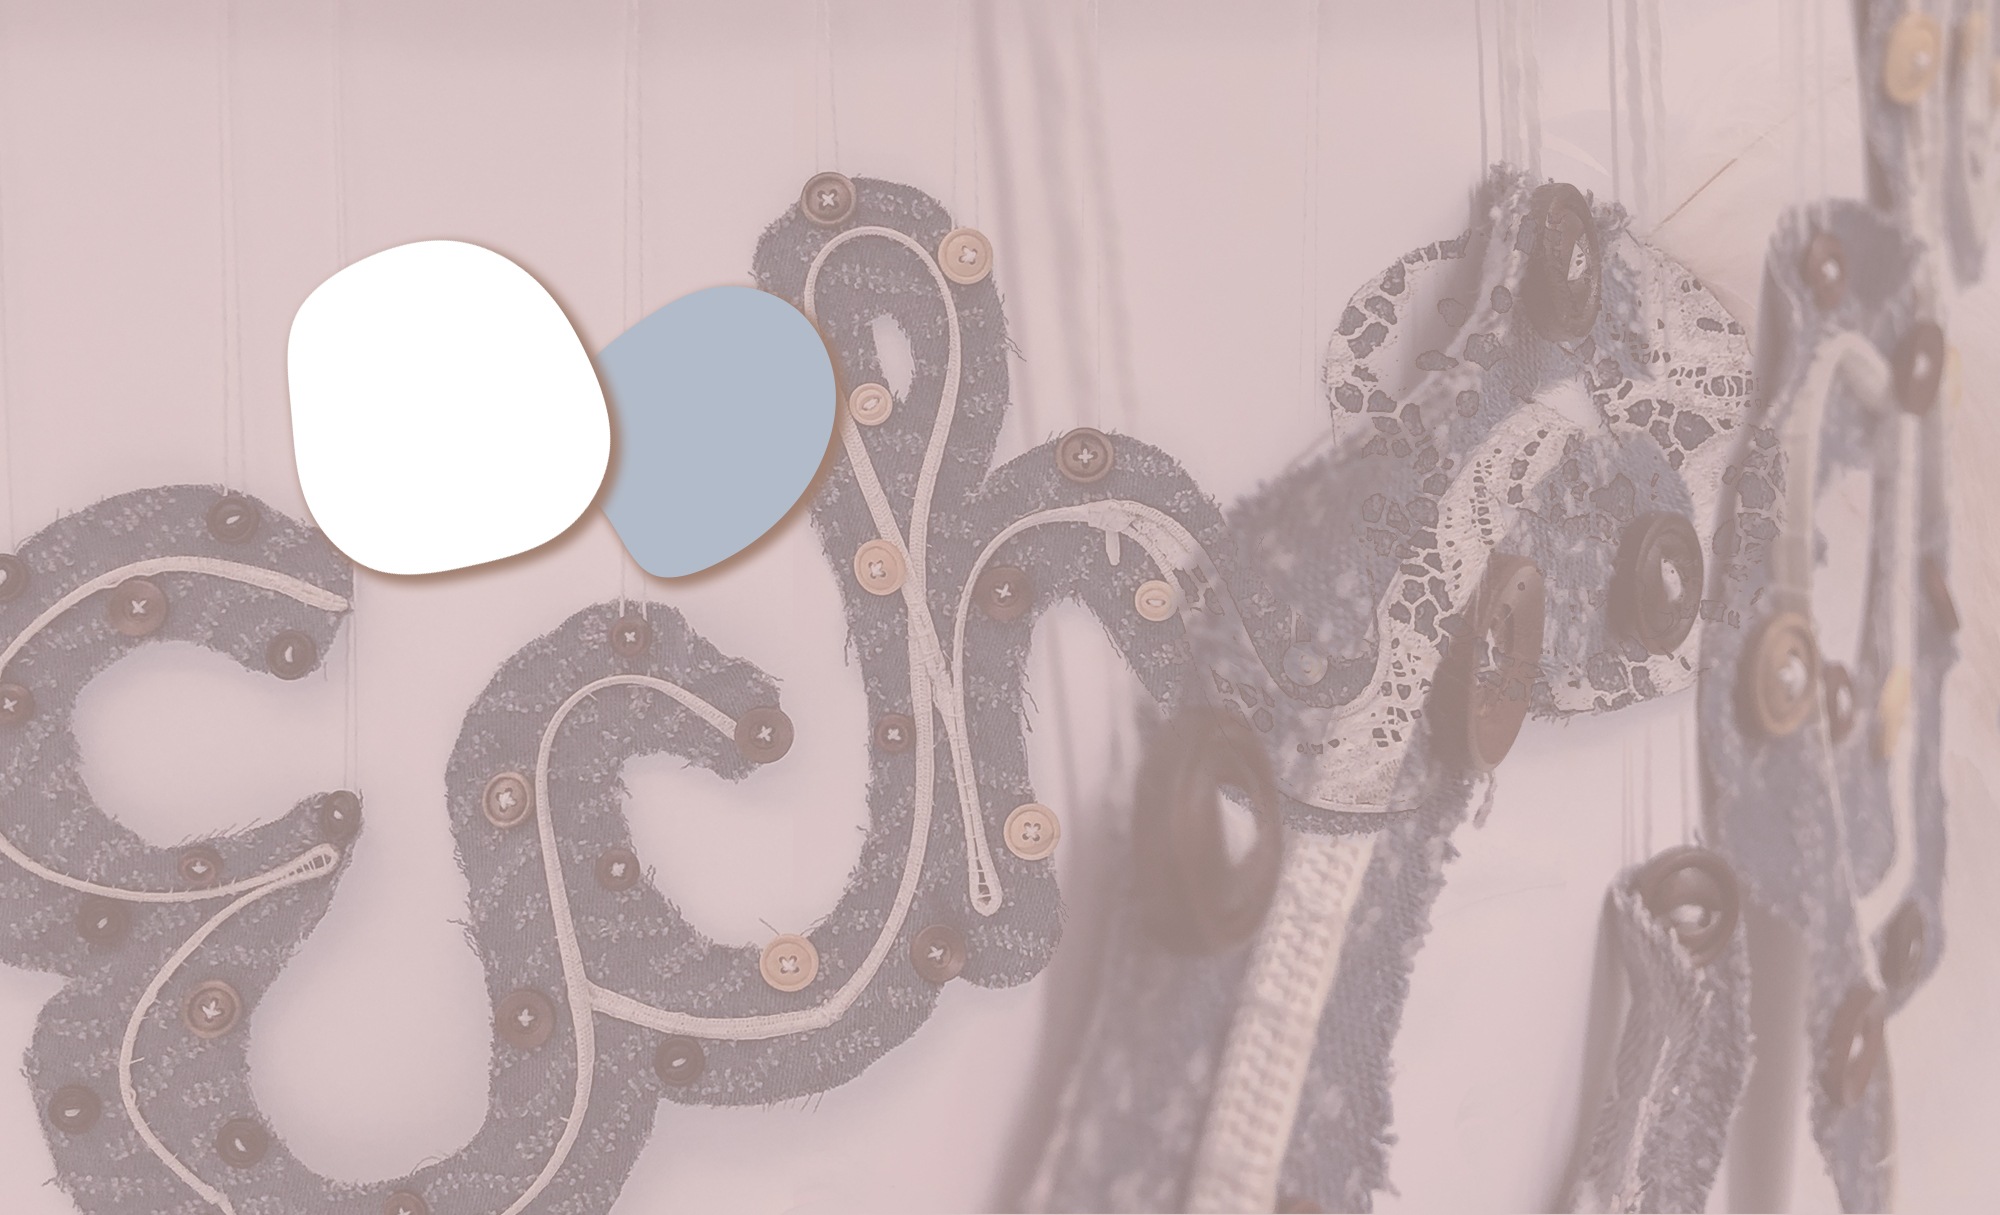
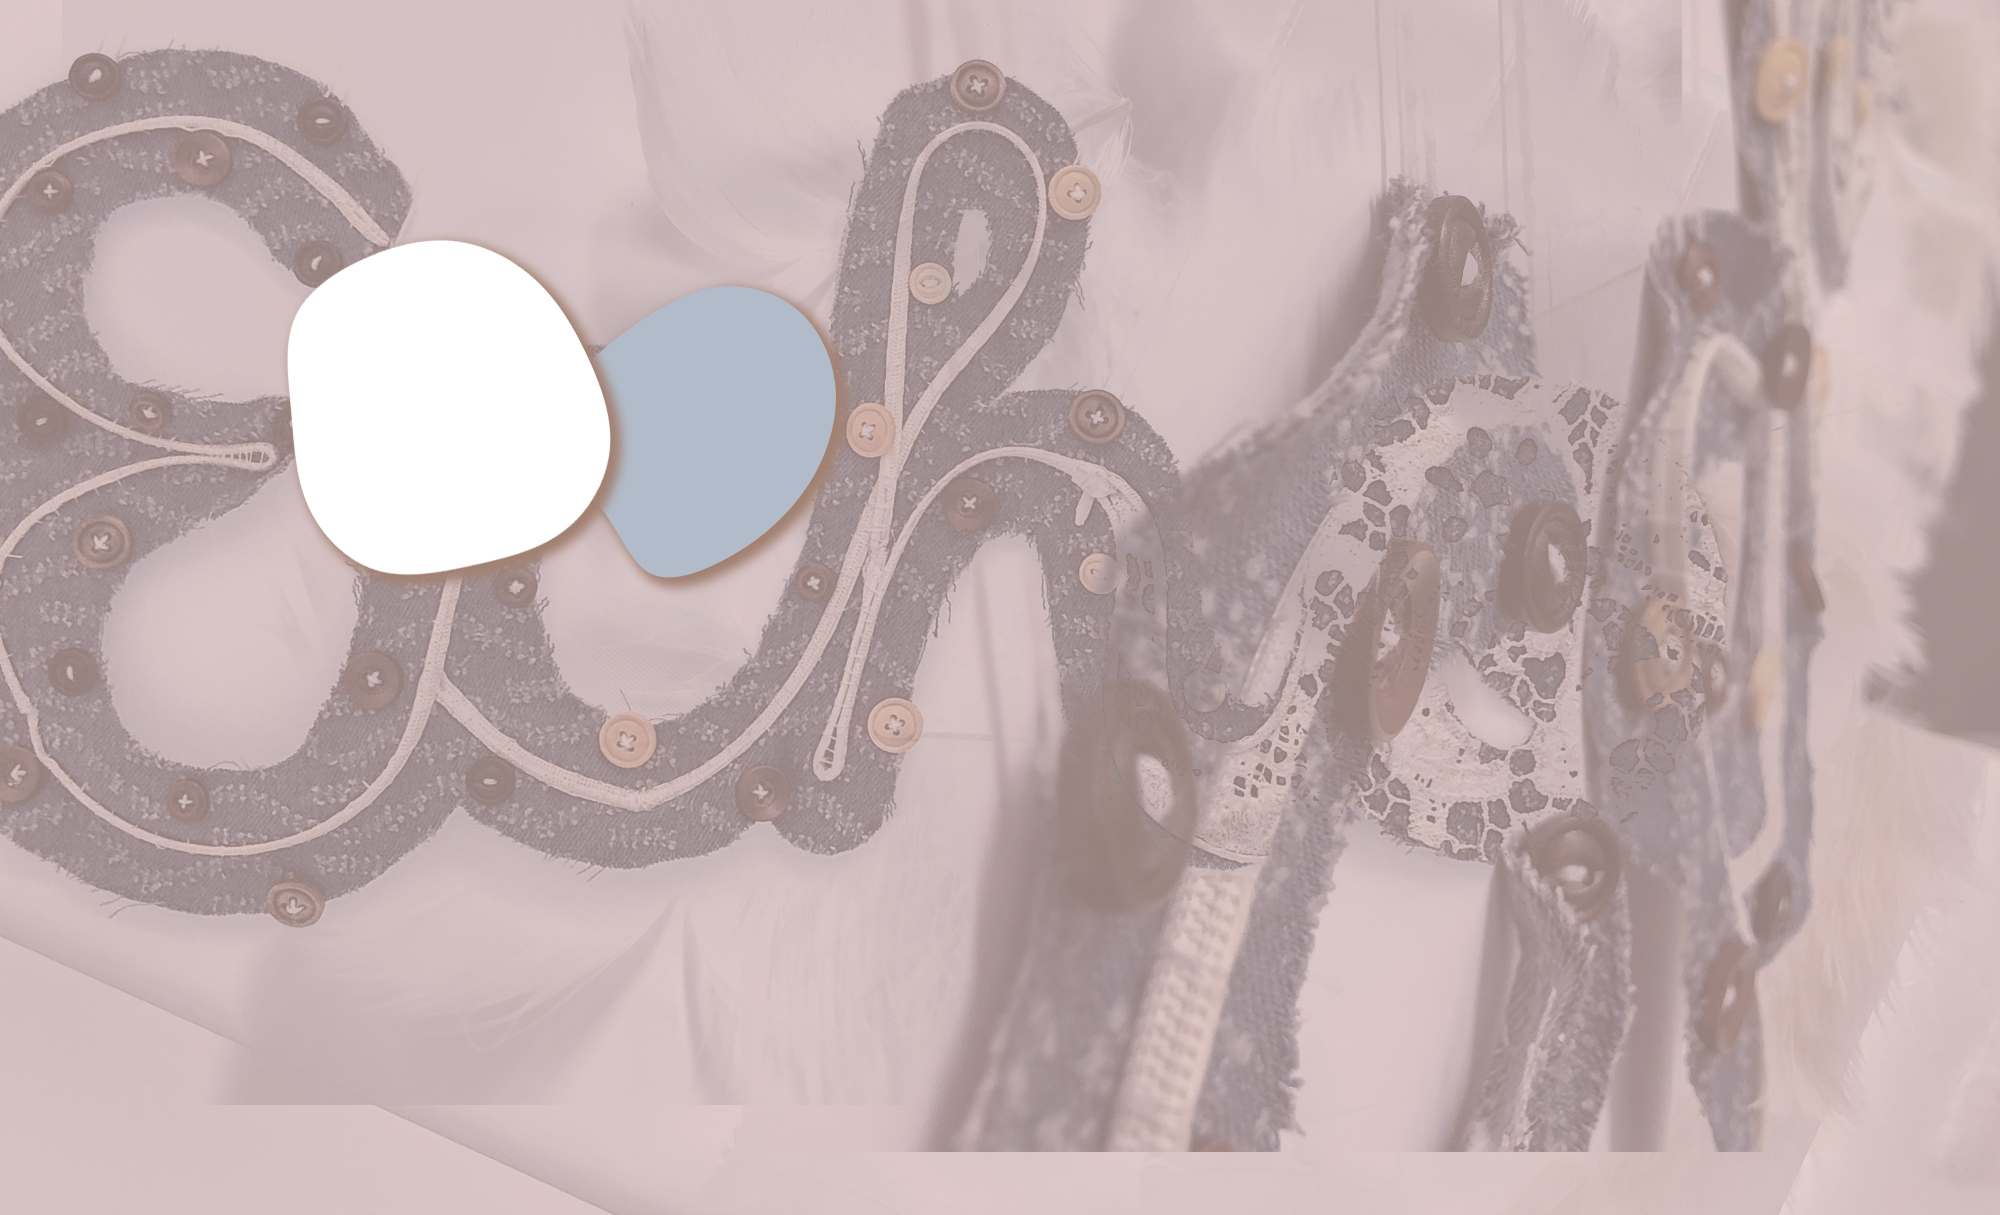
i can dooooo it

diff --git a/Conceptual_1.html b/Conceptual_1.html
@@ -46,13 +46,13 @@
 	    </div>
 	  </nav>
 	  
-	  <section class="hero-wrap" style="background-image: url('images/P1_1_big.jpg');" data-stellar-background-ratio="0.5">
+	  <section class="hero-wrap" style="background-image: url('images/P1_3_big.jpg');" data-stellar-background-ratio="0.5">
       <div class="overlay"></div>
       <div class="container">
         <div class="row no-gutters slider-text align-items-center justify-content-start">
           <div class="col-md-9 ftco-animate pb-4">
-            <h1 class="mb-3 bread">Blue + Red "≠ Purple" / "= Love"</h1>
-            <p style="color:#e2c0bb">My Family Booklet</p>
+            <h1 class="mb-3 bread">As Denim . As Feather</h1>
+            <p style="color:#e2c0bb">Feel My Name</p>
             <p class="breadcrumbs"><span class="mr-2">
               <a href="index.html">Home 
                 <i class="ion-ios-arrow-forward"></i>
@@ -71,7 +71,7 @@
                 <div class="icon justify-content-center align-items-center d-flex"><span class="flaticonnager">
                     <img src="images/What.jpg" class="img-fluid" alt="Colorlib Free Template"></span></div>
               <div class="media-body">
-                <h3 class="heading mb-3">Booklet</h3>
+                <h3 class="heading mb-3">Artwork</h3>
               </div>
             </div>      
           </div>
@@ -89,7 +89,7 @@
                 <div class="icon justify-content-center align-items-center d-flex"><span class="flaticonnager">
                     <img src="images/When.jpg" class="img-fluid" alt="Colorlib Free Template"></span></div>
               <div class="media-body">
-                <h3 class="heading mb-3">Yeah 2</h3>
+                <h3 class="heading mb-3">Yeah 1</h3>
               </div>
             </div>      
           </div>
@@ -107,7 +107,7 @@
                 <div class="icon justify-content-center align-items-center d-flex"><span class="flaticonnager">
                     <img src="images/Way.jpg" class="img-fluid" alt="Colorlib Free Template"></span></div>
               <div class="media-body">
-                <h3 class="heading mb-3"><span>Printing</span></h3>
+                <h3 class="heading mb-3"><span>Hand Made</span></h3>
               </div>
             </div>     
           </div>
@@ -119,12 +119,12 @@
         	<div class="col-md-12 tour-wrap mb-5">
     				<div class="row">
     					<div class="col-md-6 d-flex ftco-animate">
-    						<div class="img align-self-stretch" style="background-image: url(images/P1_1_intro.jpg);"></div>
+    						<div class="img align-self-stretch" style="background-image: url(images/P1_3_intro.jpg);"></div>
     					</div>
     					<div class="col-md-6 ftco-animate">
     						<div class="text py-5">
-    							<h3><a href="#">My Family Booklet</a></h3>
-    							<p class="pos"><span class="price">A strange booklet about my warm family ~</span></p>
+    							<h3><a href="#">Feel My Name</a></h3>
+    							<p class="pos"><span class="price">I am as tough as denims WHILE as gentle as feathers ~</span></p>
     							<p>
                       Why this booklet's name is - Blue + Red "≠ Purple" / "= Love" -? <br> 
                       In short, my father is an irritable person like red, my mother is a soft person like blue, 
@@ -140,57 +140,40 @@
     			</div>
     			<div class="col-md-12 tour-wrap">
     				<div class="day-wrap">
-    					<h3 class="pl-5">Front Cover page</h3>
-              <img width="600" height="100" src="images/P1_1_1.png" class="img-fluid" alt="Colorlib Free Template">
-              <p>The booklet's theme is shown on this page. 
-                Looks like my parents and I are standing there seriously, 
-                but it actually echos with the surprised on the back cover page.</p>
+    					<h3 class="pl-5">Buttons</h3>
+              <img width="1000" height="100" src="images/P1_5_1.JPG" class="img-fluid" alt="Colorlib Free Template">
     				</div>
     			</div>
     			<div class="col-md-12 tour-wrap">
     				<div class="day-wrap">
-              <h3 class="pl-5">P1 & 2</h3>
-              <img width="1600" height="100" src="images/P1_1_2.png" class="img-fluid" alt="Colorlib Free Template">
-    					<p>These two pages' theme is "Number". </p>
+    					<h3 class="pl-5">Feathers</h3>
+              <img width="1000" height="100" src="images/P1_5_2.JPG" class="img-fluid" alt="Colorlib Free Template">
     				</div>
     			</div>
     			<div class="col-md-12 tour-wrap">
               <div class="day-wrap">
-                <h3 class="pl-5">P3 & 4</h3>
-                <img width="1600" height="100" src="images/P1_1_3.png" class="img-fluid" alt="Colorlib Free Template">
-                <p>These two pages' theme is "Places". </p>
+                <h3 class="pl-5">Hanging Line</h3>
+                <img width="500" height="100" src="images/P1_5_3.JPG" class="img-fluid" alt="Colorlib Free Template">
               </div>
             </div>
             <div class="col-md-12 tour-wrap">
                 <div class="day-wrap">
-                  <h3 class="pl-5">P5 & 6</h3>
-                  <img width="1600" height="100" src="images/P1_1_4.png" class="img-fluid" alt="Colorlib Free Template">
-                  <p>These two pages' theme is "A/ some special thing(s) in my house". </p>
+                  <h3 class="pl-5">The "White"</h3>
+                  <img width="600" height="100" src="images/P1_5_4.JPG" class="img-fluid" alt="Colorlib Free Template">
                 </div>
               </div>
               <div class="col-md-12 tour-wrap">
                   <div class="day-wrap">
-                    <h3 class="pl-5">P7 & 8</h3>
-                    <img width="1600" height="100" src="images/P1_1_5.png" class="img-fluid" alt="Colorlib Free Template">
-                    <p>These two pages' theme is "Time and important events". </p>
+                    <h3 class="pl-5">Outcome</h3>
+                    <img width="1600" height="100" src="images/P1_5_5.JPG" class="img-fluid" alt="Colorlib Free Template">
                   </div>
                 </div>
                 <div class="col-md-12 tour-wrap">
                     <div class="day-wrap">
-                      <h3 class="pl-5">P9 & 10</h3>
-                      <img width="1600" height="100" src="images/P1_1_6.png" class="img-fluid" alt="Colorlib Free Template">
-                      <p>The tutor did not set a topic for these two pages, 
-                        so I designed a theme - "Accidental inevitable". </p>
+                      <h3 class="pl-5">Rendering</h3>
+                      <img width="1600" height="100" src="images/P1_5_6.JPG" class="img-fluid" alt="Colorlib Free Template">
                     </div>
                   </div>
-                  <div class="col-md-12 tour-wrap">
-                      <div class="day-wrap">
-                        <h3 class="pl-5">Back Cover page</h3>
-                        <img width="600" height="100" src="images/P1_1_7.png" class="img-fluid" alt="Colorlib Free Template">
-                        <p>See the surprised? Although on the surface, 
-                          my family is not really warm. But underneath, we love each other.</p>
-                      </div>
-                    </div>
     			<div class="col-md-12 tour-wrap">
     				<div class="pt-3 mt-100">
               <h3 class="mb-5">Supervisor </h3>
@@ -200,7 +183,7 @@
                     <img src="images/P1_1_sup.jpg" alt="Image placeholder">
                   </div>
                   <div class="comment-body">
-                    <h3>Stefan</h3>
+                    <h3>Stefan Rudolf Sonntag</h3>
                     <P>Senior teaching fellow and internationalization advisor</P>
                   </div>
                 </li>

diff --git a/index.html b/index.html
@@ -71,7 +71,7 @@
 							</div>
 							<div class="bg-primary">
 								<div class="vr"><span class="pl-3 py-4"
-										style="background-image: url(images/bg_1-1.jpg);"> Van Gogh </span></div>
+										style="background-image: url(images/bg_111.png);"> Van Gogh </span></div>
 							</div>
 						</div>
 						<div class="one-forth d-flex align-items-center ftco-animate"
@@ -99,7 +99,7 @@
 								<div class="overlay"></div>
 							</div>
 							<div class="vr"><span class="pl-3 py-4"
-									style="background-image: url(images/bg_2-2.jpg);">Inspired Painting</span></div>
+									style="background-image: url(images/bg_22.jpg);">Inspired Painting</span></div>
 						</div>
 						<div class="one-forth d-flex align-items-center ftco-animate"
 							data-scrollax=" properties: { translateY: '70%' }">
@@ -262,9 +262,9 @@
 									alt="Colorlib Template"></a>
 						</div>
 						<div class="text">
-							<h4 class="price"> Tool: InDesign & Illustrator </h4>
+							<h4 class="price"> Tool: Photoshop</h4>
 							<span>Year 1</span>
-							<h3><a href="Conceptual_1.html">My Family Booklet</a></h3>
+							<h3><a href="Conceptual_1.html">Feel My Name</a></h3>
 							<div class="star d-flex clearfix">
 							</div>
 						</div>
@@ -277,13 +277,13 @@
 				<div class="col-md-6 col-lg-4 ftco-animate">
 					<div class="project">
 						<div class="img">
-							<a href="Conceptual_2.html"><img src="images/P1_2_index.jpg" class="img-fluid"
+							<a href="Conceptual_5.html"><img src="images/P1_2_index.jpg" class="img-fluid"
 									alt="Colorlib Template"></a>
 						</div>
 						<div class="text">
 							<h4 class="price">Tool: Variety of drawing tools & Photoshop</h4>
 							<span>Year 1&2</span>
-							<h3><a href="Conceptual_2.html">Conceptual Drawing</a></h3>
+							<h3><a href="Conceptual_5.html">Conceptual Drawing</a></h3>
 							<div class="star d-flex clearfix">
 							</div>
 						</div>
@@ -334,13 +334,13 @@
 				<div class="col-md-6 col-lg-4 ftco-animate">
 					<div class="project">
 						<div class="img">
-							<a href="Conceptual_5.html"><img src="images/P1_5_index.jpg" class="img-fluid"
+							<a href="Conceptual_2.html"><img src="images/P1_5_index.jpg" class="img-fluid"
 									alt="Colorlib Template"></a>
 						</div>
 						<div class="text">
 							<h4 class="price">Tool: Variety of drawing tools & Photoshop</h4>
 							<span>Year 1&2</span>
-							<h3><a href="Conceptual_5.html">Conceptual Drawing</a></h3>
+							<h3><a href="Conceptual_2.html">Conceptual Drawing</a></h3>
 							<div class="star d-flex clearfix">
 							</div>
 						</div>
@@ -353,13 +353,13 @@
 				<div class="col-md-6 col-lg-4 ftco-animate">
 					<div class="project">
 						<div class="img">
-							<a href="Conceptual_6.html"><img src="images/P1_6_index.jpg" class="img-fluid"
+							<a href="Conceptual_3.html"><img src="images/P1_6_index.jpg" class="img-fluid"
 									alt="Colorlib Template"></a>
 						</div>
 						<div class="text">
 							<h4 class="price">Tool: Variety of drawing tools & Photoshop</h4>
 							<span>Year 1&2</span>
-							<h3><a href="Conceptual_6.html">Conceptual Drawing</a></h3>
+							<h3><a href="Conceptual_3.html">Conceptual Drawing</a></h3>
 							<div class="star d-flex clearfix">
 							</div>
 						</div>

diff --git a/Conceptual_2.html b/Conceptual_2.html
@@ -145,44 +145,39 @@
           </div>
           <div class="col-md-12 tour-wrap">
             <div class="day-wrap">
-              <h3 class="pl-5">1</h3>
-              <img width="1600" height="100" src="images/P1_2_1.png" class="img-fluid" alt="Colorlib Free Template">
-              <p>Timeless White</p>
-            </div>
-          </div>
-          <div class="col-md-12 tour-wrap">
-            <div class="day-wrap">
-              <h3 class="pl-5">2</h3>
-              <img width="1600" height="100" src="images/P1_2_2.png" class="img-fluid" alt="Colorlib Free Template">
-              <p>Life equals</p>
-            </div>
-          </div>
-          <div class="col-md-12 tour-wrap">
-            <div class="day-wrap">
-              <h3 class="pl-5">3</h3>
+              <h3 class="pl-5">Phone Kills</h3>
               <img width="1600" height="100" src="images/P1_2_3.png" class="img-fluid" alt="Colorlib Free Template">
+            </div>
+          </div>
+          <div class="col-md-12 tour-wrap">
+            <div class="day-wrap">
+              <h3 class="pl-5">Timeless White</h3>
+              <img width="1600" height="100" src="images/P1_2_1.png" class="img-fluid" alt="Colorlib Free Template">
+            </div>
+          </div>
+          <div class="col-md-12 tour-wrap">
+            <div class="day-wrap">
+              <h3 class="pl-5">Princess Parrot Training Calendar</h3>
+              <img width="1600" height="100" src="images/P1_2_5.png" class="img-fluid" alt="Colorlib Free Template">
               <p>Phone Kills</p>
             </div>
           </div>
           <div class="col-md-12 tour-wrap">
             <div class="day-wrap">
-              <h3 class="pl-5">4</h3>
-              <img width="800" height="100" src="images/P1_2_4.png" class="img-fluid" alt="Colorlib Free Template">
-              <p>Growing knowledge</p>
-            </div>
-          </div>
-          <div class="col-md-12 tour-wrap">
-            <div class="day-wrap">
-              <h3 class="pl-5">5</h3>
-              <img width="1600" height="100" src="images/P1_2_5.png" class="img-fluid" alt="Colorlib Free Template">
-              <p>Way to Take Care of Princess Parrot</p>
-            </div>
-          </div>
-          <div class="col-md-12 tour-wrap">
-            <div class="day-wrap">
-              <h3 class="pl-5">6</h3>
+              <h3 class="pl-5">Too Late to Say "It's Too Late!"</h3>
               <img width="1600" height="100" src="images/P1_2_6.png" class="img-fluid" alt="Colorlib Free Template">
-              <p>Strat With Yourself</p>
+            </div>
+          </div>
+          <div class="col-md-12 tour-wrap">
+            <div class="day-wrap">
+              <h3 class="pl-5">Growing Knowledge</h3>
+              <img width="800" height="100" src="images/P1_2_4.png" class="img-fluid" alt="Colorlib Free Template">
+            </div>
+          </div>
+          <div class="col-md-12 tour-wrap">
+            <div class="day-wrap">
+              <h3 class="pl-5">The Colour of Sunset</h3>
+              <img width="1600" height="100" src="images/P2_7_7_1.png" class="img-fluid" alt="Colorlib Free Template">
             </div>
           </div>
           <div class="col-md-12 tour-wrap">

diff --git a/Conceptual_3.html b/Conceptual_3.html
@@ -46,7 +46,7 @@
 	    </div>
 	  </nav>
 	  
-    <section class="hero-wrap" style="background-image: url('images/P1_2_big.jpg');" data-stellar-background-ratio="0.5">
+    <section class="hero-wrap" style="background-image: url('images/P1_55_big.jpg');" data-stellar-background-ratio="0.5">
       <div class="overlay"></div>
       <div class="container">
         <div class="row no-gutters slider-text align-items-center justify-content-start">
@@ -125,8 +125,7 @@
                     <div class="text py-5">
                       <h3><a href="#">AdLingo</a></h3>
                       <p class="pos"><span class="price">A design dictionary in pill form ~</span></p>
-                      <p> ADlingo 1000mg Magic Pill® is 
-                        an intern supplement and agency survivor. <br>
+                      <p> ADlingo Magic Pill is intern supplement & agency survivor. <br>
                         It is recommended for the treatment of 
                         most uncertain and unpredictable conditions, 
                         for example, brainstorming, internal meeting, 
@@ -190,7 +189,7 @@
                               <img src="images/P1_1_sup.jpg" alt="Image placeholder">
                             </div>
                             <div class="comment-body">
-                              <h3>Stefan</h3>
+                              <h3>Stefan Rudolf Sonntag</h3>
                               <P>Senior teaching fellow and internationalization advisor</P>
                             </div>
                           </li>
